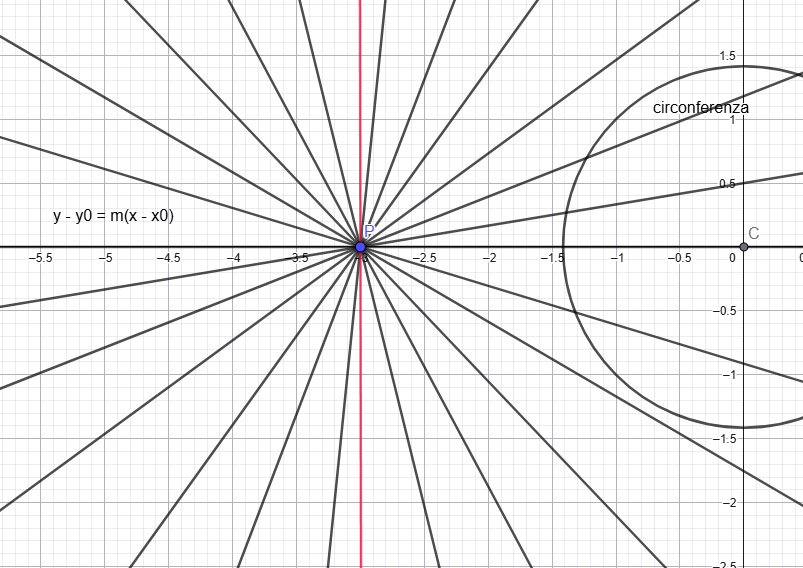
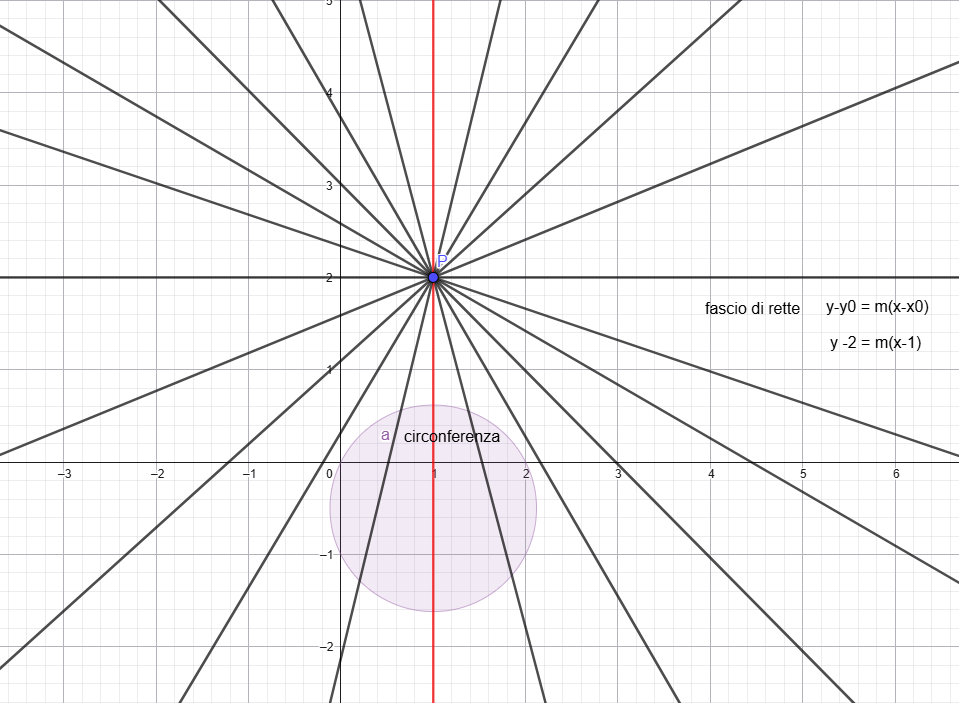
27/10

diff --git a/script.js b/script.js
@@ -1,9 +1,61 @@
 let variableMap = {};
 
-const calculationMap = {
-    "1.1": "P(X_p, Y_p)",
+const CM_passaggi_formule = {
+    "1.6": "y - Y_p = m(x - X_p)",
+    "1.7": "a_f x + b_f y + c_f = 0",
+    "1.8": "\\frac{|a_f X_c + b_f Y_c + c_f|}{\\sqrt{a_f^2 + b_f^2}}",
+    "1.9": "\\frac{|m X_c - Y_c - m X_p + Y_p|}{\\sqrt{m^2 + 1}}",
+    "1.10": "\\frac{|m X_c - Y_c - m X_p + Y_p|}{\\sqrt{m^2 + 1}} = r",
+    "1.11": "|m X_c - Y_c - m X_p + Y_p| = r \\sqrt{m^2 + 1}",
+    "1.12": "|m(X_c - X_p) - (Y_c - Y_p)| = r \\sqrt{m^2 + 1}",
+    "1.13": "m(X_c - X_p) - (Y_c - Y_p) = \\pm r \\sqrt{m^2 + 1}",
+    "1.14": "y - Y_p = m(x - X_p)",
+    "2.4": "y - Y_p = m(x - X_p)",
+    "2.5": "x^2 + \\left[ m(x - X_p) + Y_p \\right]^2 + a x + b \\left[ m(x - X_p) + Y_p \\right] + c = 0",
+    "2.6": "(1 + m^2)x^2 + \\left[ a + b m - 2 m^2 X_p + 2 m Y_p \\right]x + \\left[ m^2 X_p^2 - 2 m X_p Y_p + Y_p^2 + b Y_p - a m X_p + c \\right] = 0",
+    "2.7": "\\Delta = \\left[ a + b m - 2 m^2 X_p + 2 m Y_p \\right]^2 - 4 (1 + m^2) \\left[ m^2 X_p^2 - 2 m X_p Y_p + Y_p^2 + b Y_p - a m X_p + c \\right] = 0",
+    "2.8": "y - Y_p = m(x - X_p)",
+    "3.4": "M(X_m, Y_m) = \\left( \\frac{X_c + X_p}{2}, \\frac{Y_c + Y_p}{2} \\right)",
+    "3.5": "r_m = \\frac{\\sqrt{(X_c - X_p)^2 + (Y_c - Y_p)^2}}{2}",
+    "3.6": "(x - X_m)^2 + (y - Y_m)^2 = r_m^2",
+    "3.7": "x^2 + y^2 - 2 X_m x - 2 Y_m y + (X_m^2 + Y_m^2 - r_m^2) = 0",
+    "3.8": "\\begin{cases} x^2 + y^2 + a x + b y + c = 0 \\\\ x^2 + y^2 - 2 X_m x - 2 Y_m y + (X_m^2 + Y_m^2 - r_m^2) = 0 \\end{cases}",
+    "3.9": "D(X_D, Y_D) ~~~~~~~~ E(X_E, Y_E)",
+    "3.10": "m_D = \\frac{Y_D - Y_p}{X_D - X_p} ~~~~~~~~ m_E = \\frac{Y_E - Y_p}{X_E - X_p}",
+    "3.11": "y - Y_p = m_D (x - X_p) ~~~~~~~~ y - Y_p = m_E (x - X_p)"
+};
+
+const CM_passaggi_calcoli = {
+"1.6": "y - 2 = m(x - 1)",
+"1.7": "a_f x + b_f y + c_f = 0",
+"1.8": "\\frac{|a_f X_c + b_f Y_c + c_f|}{\\sqrt{a_f^2 + b_f^2}}",
+"1.9": "\\frac{|m*1 - 1* (-0.5) - m*1 + 2|}{\\sqrt{m^2 + 1}} = \\frac{|0.5 + 2|}{\\sqrt{m^2 + 1}} = \\frac{2.5}{\\sqrt{m^2 + 1}}",
+"1.10": "\\frac{2.5}{\\sqrt{m^2 + 1}} = r = 1.118",
+"1.11": "2.5 = 1.118 \\sqrt{m^2 + 1}",
+"1.12": "2.5^2 = (1.118)^2 * (m^2 + 1)",
+"1.13": "6.25 = 1.25 (m^2 + 1) \\Rightarrow 6.25 = 1.25 m^2 + 1.25 \\Rightarrow 6.25 - 1.25 = 1.25 m^2 \\Rightarrow 5 = 1.25 m^2 \\Rightarrow m^2 = 4 \\Rightarrow m = \\pm 2",
+"1.14": "y - 2 = 2(x - 1) \\Rightarrow y = 2x, \\quad y - 2 = -2(x - 1) \\Rightarrow y = -2x + 4",
+
+"2.4": "y - 2 = m(x - 1)",
+"2.5": "x^2 + [m(x-1) + 2]^2 - 2x + (m(x-1) + 2) = 0",
+"2.6": "x^2 + m^2(x-1)^2 + 4 m(x-1) + 4 - 2x + m(x-1) + 2 = 0 \\)<br><br>\\( x^2 + m^2(x^2 -2x +1) + 4 m x - 4 m +4 - 2x + m x - m + 2 = 0\\) <br><br> \\((1 + m^2)x^2 + (-2 m^2 + 5 m - 2)x + (m^2 -5 m + 6) = 0",
+
+"2.7": "\\Delta = (-2 m^2 + 5 m -2)^2 - 4(1 + m^2)(m^2 -5 m + 6) = 0 \\)<br><br>\\(\\Delta = (4 m^4 +25 m^2 +4 -20 m^3 +8m^2 -20m) + (-4 -4m^2)(m^2 -5 m +6) = 0 \\)<br><br>\\(\\Delta = 4 m^4 +25 m^2 +4 -20 m^3 +8m^2 -20m -4m^2 + 20m -24 -4m^4 + 20 m^3 -24m^2 = 0 \\)<br><br>\\(\\Delta = 5m^2 - 20 = 0\\)<br><br>\\(5m^2 = 20\\)<br><br>\\(m^2 = 4 \\Rightarrow m = 2 ~or~ m = -2",
+"2.8": "\\text{Risolvendo per } m \\Rightarrow m = 2, m = -2\\)<br><br>\\(y - 2 = 2(x-1) \\Rightarrow y = 2x\\)<br><br>\\(y - 2 = -2(x-1) \\Rightarrow y = -2x + 4",
+
+"3.4": "M(X_m, Y_m) = ((X_c + X_p)/2, (Y_c + Y_p)/2) = ((1+1)/2, (-0.5 + 2)/2) = (1, 0.75)",
+"3.5": "r_m = sqrt((X_c - X_p)^2 + (Y_c - Y_p)^2)/2 = sqrt((1-1)^2 + (-0.5-2)^2)/2 = sqrt(0 + 6.25)/2 = sqrt(6.25)/2 = 2.5/2 = 1.25",
+"3.6": "(x-1)^2 + (y-0.75)^2 = 1.25^2 = 1.5625",
+"3.7": "x^2 -2*1*x +1 + y^2 -2*0.75*y +0.5625 = 1.5625 \\Rightarrow x^2 -2x + y^2 -1.5 y +1.5625 -1.5625 = 0 \\Rightarrow x^2 + y^2 -2x -1.5 y = 0",
+"3.8": "\\begin{cases} x^2 + y^2 -2x + y = 0 \\\\ x^2 + y^2 -2x -1.5y = 0 \\end{cases}\\)<br><br>\\(\\text{Sottraendo le due equazioni: } (x^2 + y^2 -2x + y) - (x^2 + y^2 -2x -1.5 y) = 0 \\Rightarrow y + 1.5y = 2.5y = 0 \\Rightarrow y = 0\\)<br><br>\\(\\text{Sostituendo in una delle due circonferenze: } x^2 + 0 -2x + 0 = 0 \\Rightarrow x(x-2)=0 \\Rightarrow x=0 \\text{ o } x=2",
+"3.9": "D(0,0), E(2,0)",
+"3.10": "m_D = (0-2)/(0-1) = -2/-1 = 2, ~~~ m_E = (0-2)/(2-1) = -2/1 = -2",
+"3.11": "y - 2 = 2(x-1) \\Rightarrow y = 2x, ~~~ y - 2 = -2(x-1) \\Rightarrow y = -2x +4"
+};
+
+const CM_sistema_calcolo = {
+    "1.01": "P(X_p, Y_p)",
     "1.2": "x^2 + y^2 + a x + b y + c = 0",
-    "1.3": "x^2 + y^2 + a x + b y + c = 0",
     "1.4": "C(X_c, Y_c) = \\left( -\\frac{a}{2}, -\\frac{b}{2} \\right)",
     "1.5": "r = \\sqrt{X_c^2 + Y_c^2 - c}",
     "1.6": "y - Y_p = m(x - X_p)",
@@ -15,7 +67,11 @@ const calculationMap = {
     "1.12": "|m(X_c - X_p) - (Y_c - Y_p)| = r \\sqrt{m^2 + 1}",
     "1.13": "m(X_c - X_p) - (Y_c - Y_p) = \\pm r \\sqrt{m^2 + 1}",
     "1.14": "y - Y_p = m(x - X_p)",
-    "2.1": "P(X_p, Y_p)",
+    
+    "2.02": "x^2 + y^2 + a x + b y + c = 0",
+    "2.03": "C(X_c, Y_c) = \\left( -\\frac{a}{2}, -\\frac{b}{2} \\right)",
+    "2.04": "r = \\sqrt{X_c^2 + Y_c^2 - c}",
+
     "2.2": "x^2 + y^2 + a x + b y + c = 0",
     "2.3": "r^2 = X_c^2 + Y_c^2 - c \\geq 0",
     "2.4": "y - Y_p = m(x - X_p)",
@@ -23,6 +79,12 @@ const calculationMap = {
     "2.6": "(1 + m^2)x^2 + \\left[ a + b m - 2 m^2 X_p + 2 m Y_p \\right]x + \\left[ m^2 X_p^2 - 2 m X_p Y_p + Y_p^2 + b Y_p - a m X_p + c \\right] = 0",
     "2.7": "\\Delta = \\left[ a + b m - 2 m^2 X_p + 2 m Y_p \\right]^2 - 4 (1 + m^2) \\left[ m^2 X_p^2 - 2 m X_p Y_p + Y_p^2 + b Y_p - a m X_p + c \\right] = 0",
     "2.8": "y - Y_p = m(x - X_p)",
+
+    "3.01": "P(X_p, Y_p)",
+    "3.02": "x^2 + y^2 + a x + b y + c = 0",
+    "3.03": "C(X_c, Y_c) = \\left( -\\frac{a}{2}, -\\frac{b}{2} \\right)",
+    "3.04": "r = \\sqrt{X_c^2 + Y_c^2 - c}",
+
     "3.1": "P(X_p, Y_p)",
     "3.2": "x^2 + y^2 + a x + b y + c = 0",
     "3.3": "r^2 = X_c^2 + Y_c^2 - c \\geq 0",
@@ -39,12 +101,23 @@ const calculationMap = {
 function UpdateCalculationsAndGraph() {
     let interactiveDiv = document.getElementById("interactive");
     interactiveDiv.innerHTML = "";
-    const bValues = document.getElementById("check_parametri_numeri").checked;
-    const x_val = parseFloat(document.getElementById("xp_val").value);
-    const y_val = parseFloat(document.getElementById("yp_val").value);
-    const a_val = parseFloat(document.getElementById("a_val").value);
-    const b_val = parseFloat(document.getElementById("b_val").value);
-    const c_val = parseFloat(document.getElementById("c_val").value);
+    const bValues = document.getElementById("check_parametri_numeri").value != "P";
+    let x_val = parseFloat(document.getElementById("xp_val").value);
+    let y_val = parseFloat(document.getElementById("yp_val").value);
+    let a_val = parseFloat(document.getElementById("a_val").value);
+    let b_val = parseFloat(document.getElementById("b_val").value);
+    let c_val = parseFloat(document.getElementById("c_val").value);
+
+    if (document.getElementById("check_parametri_numeri").value == "E") {
+        // Exercise 100 values
+        x_val = 1.000;
+        y_val = 2.000;
+        a_val = -2.000;
+        b_val = 1.000;
+        c_val = 0.000;
+    }
+
+    //alert(bValues);
 
     // Validate inputs to prevent NaN
     if (isNaN(x_val) || isNaN(y_val) || isNaN(a_val) || isNaN(b_val) || isNaN(c_val)) {
@@ -61,12 +134,12 @@ function UpdateCalculationsAndGraph() {
     };
 
     const method = document.getElementById("select_metodo").value;
-    const methodFormulas = Object.keys(calculationMap).filter(id => id.startsWith(method + "."));
+    const methodFormulas = Object.keys(CM_sistema_calcolo).filter(id => id.startsWith(method + "."));
 
     // If checkbox is unchecked, show all formulas in order
     if (!bValues) {
         methodFormulas.forEach(id => {
-            renderCalculation(interactiveDiv, false, calculationMap[id], true);
+            renderCalculation(interactiveDiv, false, CM_sistema_calcolo[id], true);
         });
         // Draw only axes if no numerical values
         window.svgCartesianUpdate({});
@@ -97,6 +170,8 @@ function UpdateCalculationsAndGraph() {
         });
         return;
     }
+
+    //alert("asdas");
 
     switch (method) {
         case '1':
@@ -460,31 +535,51 @@ function renderCalculation(element, useValues, latexStr, add = false) {
     }
 }
 
+function aggiornaParametriOCalcoli ()
+{
+    const parametri = document.querySelector('input[name="rd_passaggi"]:checked').value == "Parametri";
+
+    if (parametri) {
+        // Render static calculations
+        Object.entries(CM_passaggi_formule).forEach(([id, latex]) => {
+            const el = document.getElementById(id);
+            if (!el) {
+                console.log(`Elemento con id ${id} non trovato`);
+            } else if (!latex) {
+                el.innerHTML = '';
+            } else {
+                renderCalculation(el, false, latex);
+            }
+        });
+    } else {
+            Object.entries(CM_passaggi_calcoli).forEach(([id, latex]) => {
+            const el = document.getElementById(id);
+            if (!el) {
+                console.log(`Elemento con id ${id} non trovato`);
+            } else if (!latex) {
+                el.innerHTML = '';
+            } else {
+                renderCalculation(el, false, latex);
+            }
+        });
+    }
+}
+
 window.onload = () => {
     const selectMetodo = document.getElementById("select_metodo");
     const checkParametri = document.getElementById("check_parametri_numeri");
     const parametriContainer = document.getElementById("parametri_container");
+    const formuleOCalcoliNeiMetodi = document.getElementById("formule_o_calcoli_nei_metodi");
     const inputs = parametriContainer.querySelectorAll("input[type='number']");
-    parametriContainer.style.visibility = checkParametri.checked ? "visible" : "hidden";
+    parametriContainer.style.visibility = checkParametri.value == "I" ? "visible" : "hidden";
     parametriContainer.style.display = "block";
 
     selectMetodo.addEventListener("change", UpdateCalculationsAndGraph);
     checkParametri.addEventListener("change", () => {
-        parametriContainer.style.visibility = checkParametri.checked ? "visible" : "hidden";
+        parametriContainer.style.visibility = checkParametri.value == "I" ? "visible" : "hidden";
         UpdateCalculationsAndGraph();
     });
     inputs.forEach(inp => inp.addEventListener("input", UpdateCalculationsAndGraph));
     UpdateCalculationsAndGraph();
-
-    // Render static calculations
-    Object.entries(calculationMap).forEach(([id, latex]) => {
-        const el = document.getElementById(id);
-        if (!el) {
-            console.log(`Elemento con id ${id} non trovato`);
-        } else if (!latex) {
-            el.innerHTML = '';
-        } else {
-            renderCalculation(el, false, latex);
-        }
-    });
+    aggiornaParametriOCalcoli();
 };

diff --git a/index.html b/index.html
@@ -52,6 +52,52 @@
     </div>
 
     <div class="section">
+        <h2>Problema pag. 296 n. 100</h2>
+        <p>
+            Possiamo svolgere come esempio l'esercizio 100 di pagina 296 del libro di testo: 
+            "<strong>Verifica che il punto P è esterno alla circonferenza di cui è data l'equazione e determina le equazioni delle rette tangenti alla circonfrenza e passanti per P</strong>"
+            con l'equazione della circonferenza \( x^2 + y^2 - 2x + y = 0 \) e il punto \( P(1,2) \).
+            Prima di procedere nel determinare le equazioni delle rette tangenti, l'esercizio richiede di verificare che il punto P sia esterno alla circonferenza. Per fare ciò, calcoliamo il centro e il raggio della circonferenza:
+        </p>
+
+        <div class="subsection">
+            <h3>Passo 0: Dati, espressi con parametri</h3>
+            <p>Possiamo esprimere le coordinate del punto P e l'equazione generale della circonferenza come segue:</p>
+            <div class="calculation">\(P(X_p, Y_p) ~~~~~~ P(1, 2)\)</div>
+            <div class="calculation">\(x^2 + y^2 + a x + b y + c = 0 ~~~~~ x^2 + y^2 - 2 x + y = 0\)</div>
+        </div>
+
+        <div class="subsection">
+            <h3>Passo 1: Verificare se la circonferenza esiste e in caso affermativo trovarne centro e raggio; Verificare poi che il punto P è esterno</h3>
+            <p>Data l'equazione generale della circonferenza \( x^2 + y^2 + ax + by + c = 0 \), dopo aver verificato che rappresenti una circonferenza, ne determiniamo centro e raggio:</p>
+            <div class="calculation">\(x^2 + y^2 + a x + b y + c = 0 ~~~~~ x^2 + y^2 - 2 x + y = 0\)</div>
+            <p>Il centro \( C(X_c, Y_c) \) è dato da:</p>
+            <div class="calculation">\(C(X_c, Y_c) = \left( -\frac{a}{2}, -\frac{b}{2} \right) = \left( -\frac{-2}{2}, -\frac{1}{2} \right) ~~~~~ C(1, -0.5)\)</div>
+            <p>Il raggio \( r \) si ottiene come:</p>
+            <div class="calculation">\(r = \sqrt{X_c^2 + Y_c^2 - c} = \sqrt{1^2 + (-0.5)^2 - 0} = \sqrt{1.25} \approx 1.118\)</div>
+            <p>Per garantire che la circonferenza esista, il raggio deve essere reale (\( r^2 \geq 0 \)).</p>
+            <p>Ora verifichiamo se il punto \( P \) è esterno alla circonferenza calcolando la distanza tra \( P \) e il centro \( C \) e confrontandola con il raggio \( r \):</p>
+            <div class="calculation">
+                \(d_{PC} = \sqrt{(X_p - X_c)^2 + (Y_p - Y_c)^2} \quad \text{con } P(1, 2), C(1, -0.5): \quad d_{PC} = \sqrt{(1 - 1)^2 + (2 - (-0.5))^2} = \sqrt{6.25} = 2.5 > \sqrt{1.25} \approx 1.118\)
+            </div>
+            <p>Se la distanza \( PC \) è maggiore del raggio \( r \), come in questo caso, allora il punto \( P \) è esterno alla circonferenza, come richiesto.</p>
+            <p>I passaggi successivi, che sono diversi in base al metodo adottato, sono spiegati coi dati sotto forma di parametri.
+                Lo svolgimento completo dell'esercizio 100 è presente alla fine, nella sezione interattiva, dove è possibile vedere il procedimento
+                completo, sotto forma di formule, calcoli per dati numerici specifici oppure calcoli e grafici per l'esercizio 100.
+            </p>
+        </div>
+    </div>
+
+    <p> Visualizza i passaggi sotto forma di: </p>
+    <input type="radio" id="rd_parametri" name="rd_passaggi" value="Parametri" checked>
+    <label for="html">Parametri</label><br>
+    <input type="radio" id="rd_calcoli" name="rd_passaggi" value="Calcoli">
+    <label for="css">Calcoli</label><br>
+    <button onclick="aggiornaParametriOCalcoli()">Applica</button><br>
+
+    <br>
+
+    <div class="section">
         <h2>Metodo della distanza del fascio di rette</h2>
         <p>
             In questa sezione si descrive il metodo per determinare l’equazione delle rette che passano per
@@ -59,23 +105,7 @@
             metodo si basa sulla costruzione del fascio di rette passanti per P, sul calcolo della distanza tra
             il centro della circonferenza e le rette del fascio, e sull’imposizione della condizione di tangenza.
         </p>
-        <div class="subsection">
-            <h3>Passo 0: Dati, espressi con parametri</h3>
-            <p>Possiamo esprimere le coordinate del punto P e l'equazione generale della circonferenza come segue:</p>
-            <div class="calculation" id="1.1"></div>
-            <div class="calculation" id="1.2"></div>
-        </div>
 
-        <div class="subsection">
-            <h3>Passo 1: Verificare se la circonferenza esiste e in caso affermativo trovarne centro e raggio</h3>
-            <p>Data l'equazione generale della circonferenza \( x^2 + y^2 + ax + by + c = 0 \), dopo aver verificato che rappresenti una circonferenza, ne determiniamo centro e raggio:</p>
-            <div class="calculation" id="1.3"></div>
-            <p>Il centro \( C(X_c, Y_c) \) è dato da:</p>
-            <div class="calculation" id="1.4"></div>
-            <p>Il raggio \( r \) si ottiene come:</p>
-            <div class="calculation" id="1.5"></div>
-            <p>Per garantire che la circonferenza esista, il raggio deve essere reale (\( r^2 \geq 0 \)).</p>
-        </div>
 
         <div class="subsection">
             <h3>Passo 2: Costruzione del fascio di rette passanti per \( P \)</h3>
@@ -124,18 +154,6 @@
             tramite il discriminante (delta) uguale a zero. Imponendo il discriminante a zero, possiamo trovare i valori del coefficiente \(m_i\) per cui l'intersezione
             tra la retta e la circonferenza è unica, ovvero la retta è tangente.
         </p>
-        <div class="subsection">
-            <h3>Passo 0: Dati, espressi con parametri</h3>
-            <p>Possiamo esprimere le coordinate del punto \( P \) e l'equazione generale della circonferenza come segue:</p>
-            <div class="calculation" id="2.1"></div>
-            <div class="calculation" id="2.2"></div>
-        </div>
-
-        <div class="subsection">
-            <h3>Passo 1: Verificare se la circonferenza esiste</h3>
-            <p>Data l'equazione generale della circonferenza \( x^2 + y^2 + ax + by + c = 0 \), verifichiamo che rappresenti una circonferenza controllando che il raggio sia reale:</p>
-            <div class="calculation" id="2.3"></div>
-        </div>
 
         <div class="subsection">
             <h3>Passo 2: Costruzione del fascio di rette passanti per \( P \)</h3>
@@ -178,18 +196,6 @@
             è la metà della distanza tra \( C \) e \( P \). Di conseguenza, alla circonferenza ausiliaria appartengono sia \( C \) che \( P \). Le tangenti sono poi individuate come le
             rette passanti per \( P \) e per i punti di intersezione tra le due circonferenze.
         </p>
-        <div class="subsection">
-            <h3>Passo 0: Dati, espressi con parametri</h3>
-            <p>Definiamo il punto \( P \) e l'equazione della circonferenza:</p>
-            <div class="calculation" id="3.1"></div>
-            <div class="calculation" id="3.2"></div>
-        </div>
-
-        <div class="subsection">
-            <h3>Passo 1: Verificare se la circonferenza esiste</h3>
-            <p>Per la circonferenza \( x^2 + y^2 + ax + by + c = 0 \), controlliamo che il raggio sia reale:</p>
-            <div class="calculation" id="3.3"></div>
-        </div>
 
         <div class="subsection">
             <h3>Passo 2: Costruzione della circonferenza ausiliaria</h3>
@@ -228,18 +234,46 @@
     </div>
 
     <div class="section">
+        <h2>Conclusioni</h2>
+        <p>
+            I tre metodi presentati danno risultati equivalenti, anche se con approcci differenti.
+            La scelta del metodo più adatto può dipendere da vari fattori.
+            Ad esempio, il metodo del delta posto a zero diventa significativamente più semplice se molti coefficienti sono nulli,
+            mentre il metodo della doppia circonferenza è particolarmente utile e semplice in ambito grafico e di disegno tecnico. A livello di calcolo, può essere meno immediato
+            per il sistema di due equazioni di secondo grado, che però si semplificano.
+            Il metodo geometrico è invece quello più intuitivo come logica, anche se richiede lo svolgimento di una equazione con valori assoluti.
+            <br>
+            Inoltre, un procedimento simile a quello esposto può essere utilizzato per risolvere anche problemi simili.
+            In particolare, il secondo metodo può essere applicato per tutte le coniche perchè sfrutta proprietà comuni di tutte. Gli altri
+            due si limitano alle circonferenze.
+            <br>
+            In aggiunta, i primi due metodi sono adattabili in maniera semplice anche a tipi di problemi simili, ad esempio uno che richiede di trovare il parametro k di una circonfrenza,
+            data l'equazione di essa in funzione di k, tangente a una retta data. Il terzo metodo in questo caso si rivelerebbe molto più complesso.
+            <br>
+            Tutte le strategie proposte falliscono però nell'ottenere rette verticali perchè tutte usano l'equazione del fascio di rette.
+            Si potrebbe anche considerare il fascio di rette \( a(x-x_v) + b(y-y_v) = 0 \), dove \( (x_v, y_v) \) sono le coordinate del punto P,
+            ma aumenerebbe il numero delle incognite e la complessità dei calcoli.
+            Tuttavia, il grafico da tracciare all'inizio dello svolgimento dell'esercizio ci può però rivelare la presenza di rette verticali tra le tangenti.
+            <br>
+        </p>
+    </div>
+
+    <div class="section">
         <h2>Visualizzazione Interattiva</h2>
         <div id="interactive-controls">
             <label for="select_metodo">Metodo:</label>
             <select id="select_metodo">
                 <option value="1">Metodo 1 - Distanza</option>
                 <option value="2">Metodo 2 - Discriminante</option>
-                <option value="3">Metodo 3 - Doppia circonferenza</option>
+                <option value="3">Metodo 3 - Doppia circonferenza</option> -->
             </select>
 
-            <label>
-                <input type="checkbox" id="check_parametri_numeri" checked="true"> Inserire valori
-            </label>
+            <label for="check_parametri_numeri">Valori:</label>
+            <select id="check_parametri_numeri">
+                <option value="P">Parametri</option>
+                <option value="I">Valori Input</option>
+                <option value="E">Valori Es 100 p 296</option>
+            </select>
 
             <div id="parametri_container" style="margin-top:10px; display:none;">
                 <label>x² + y² + 
